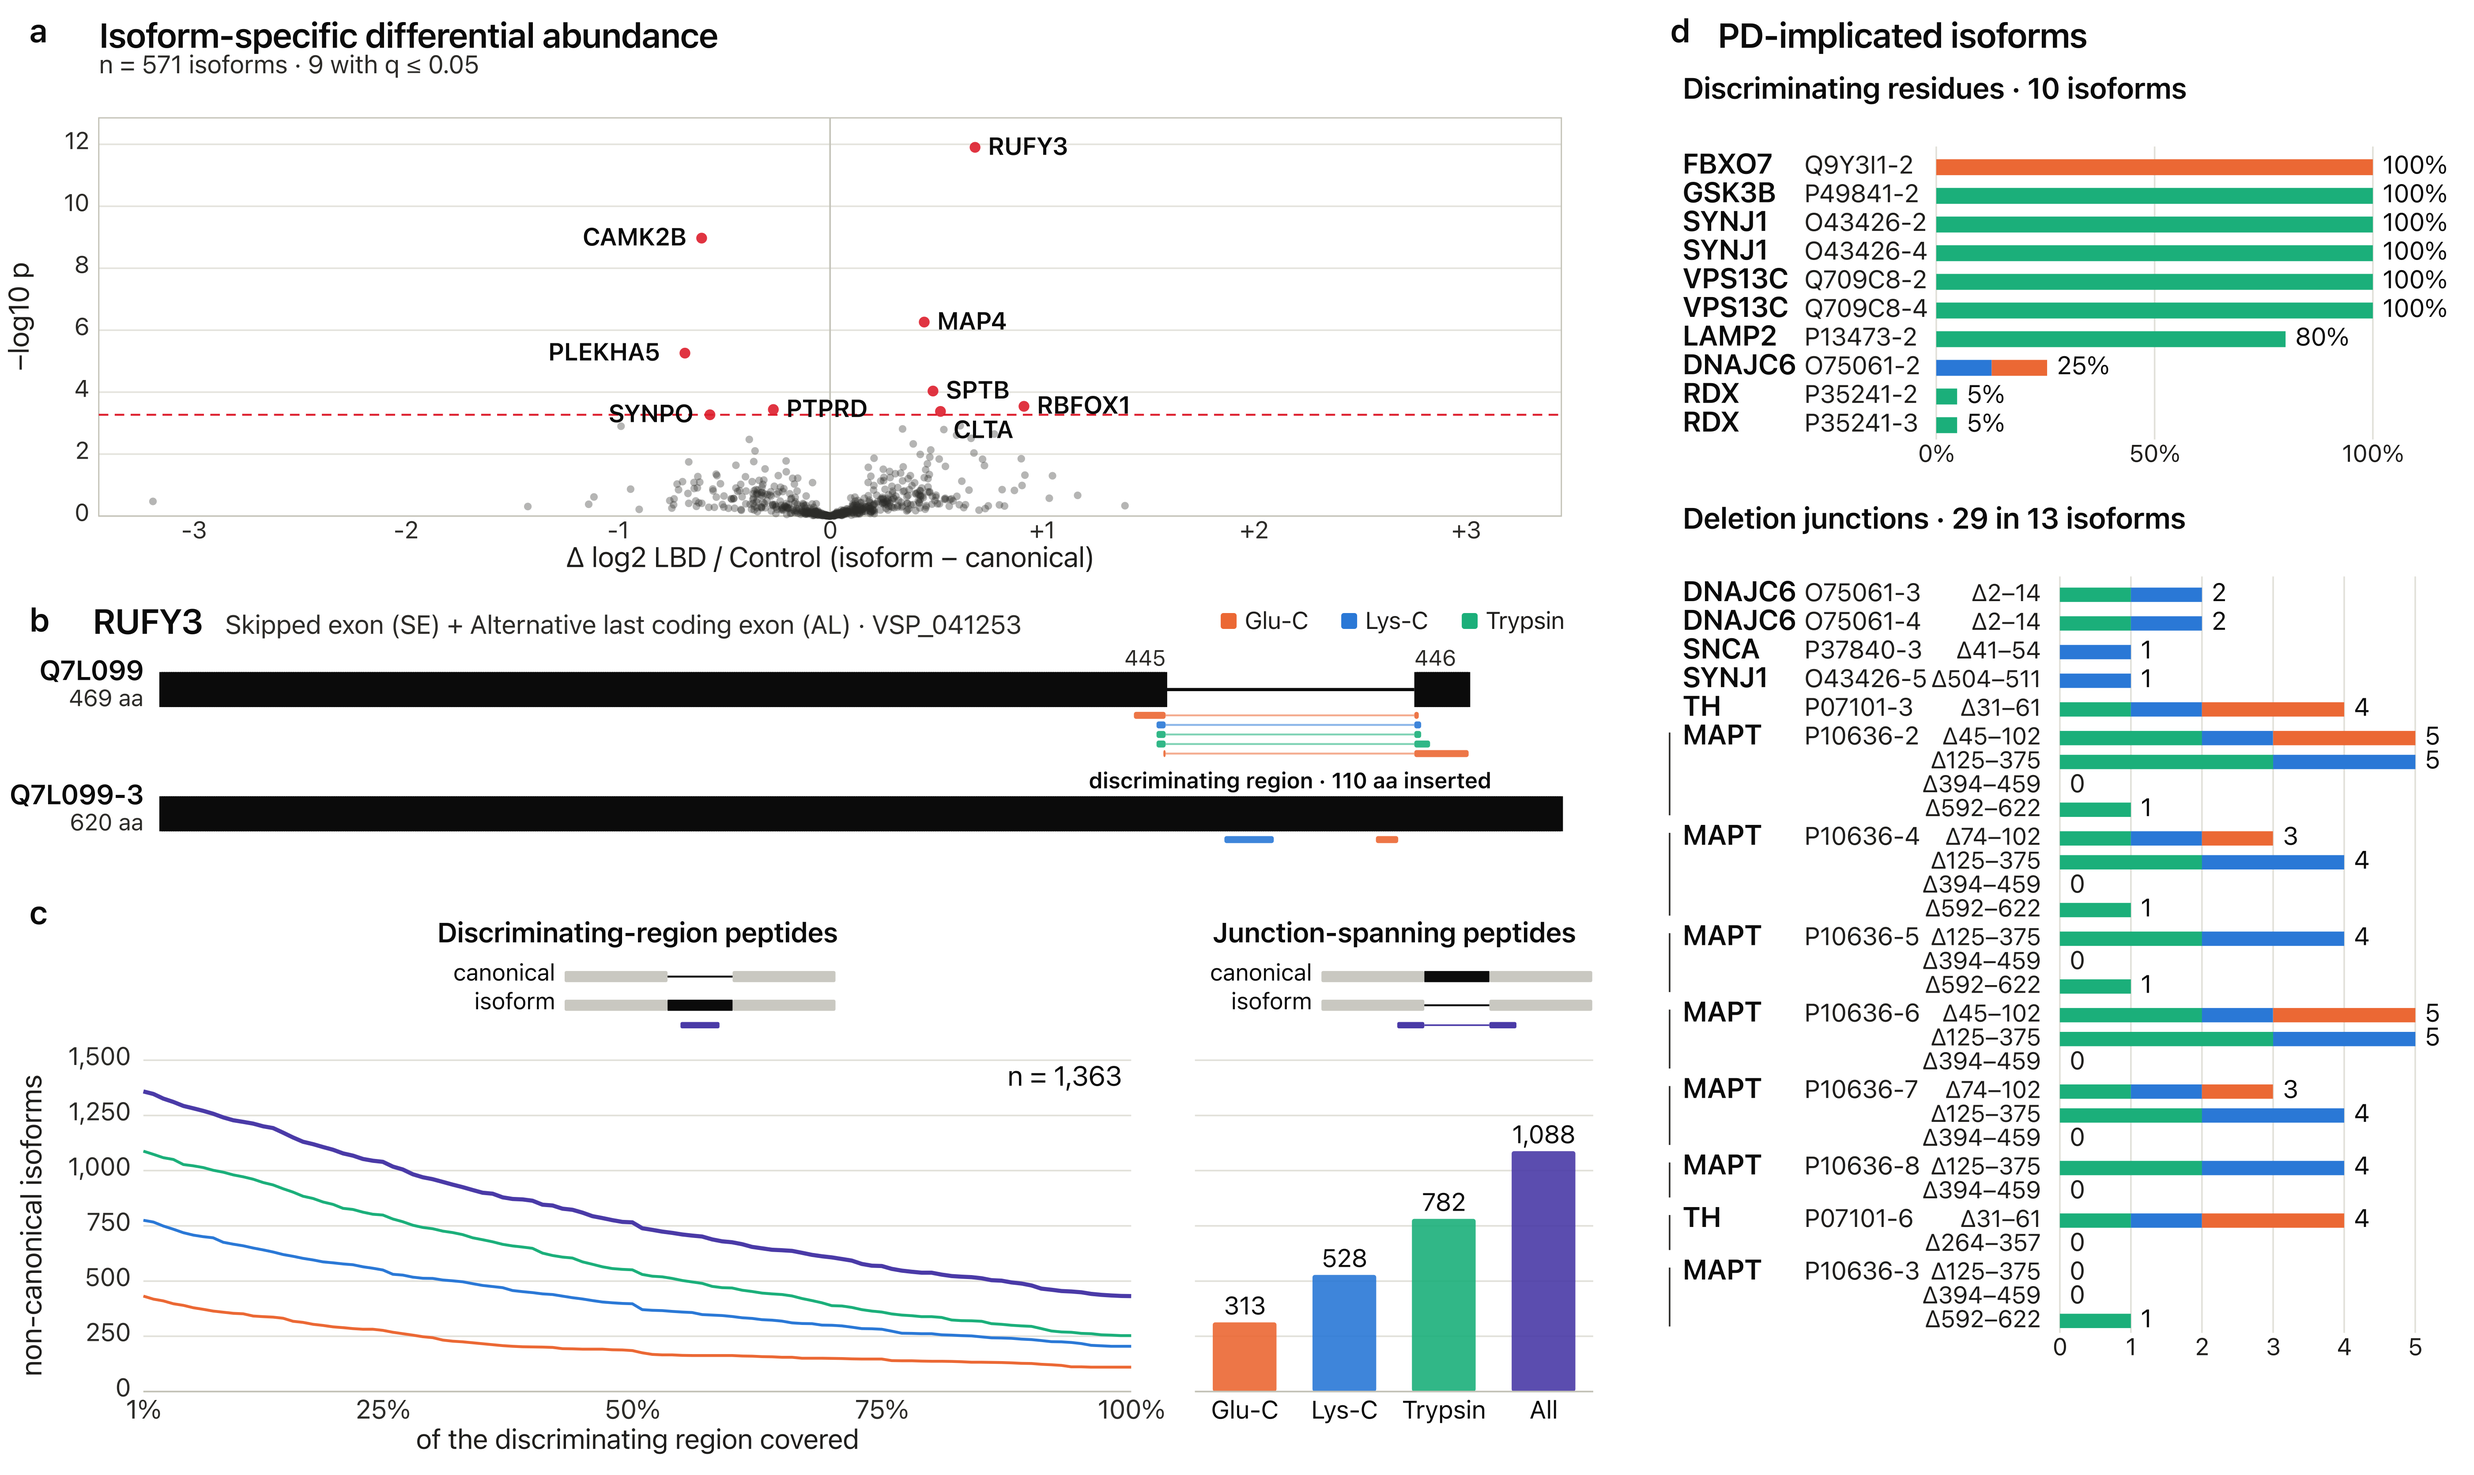
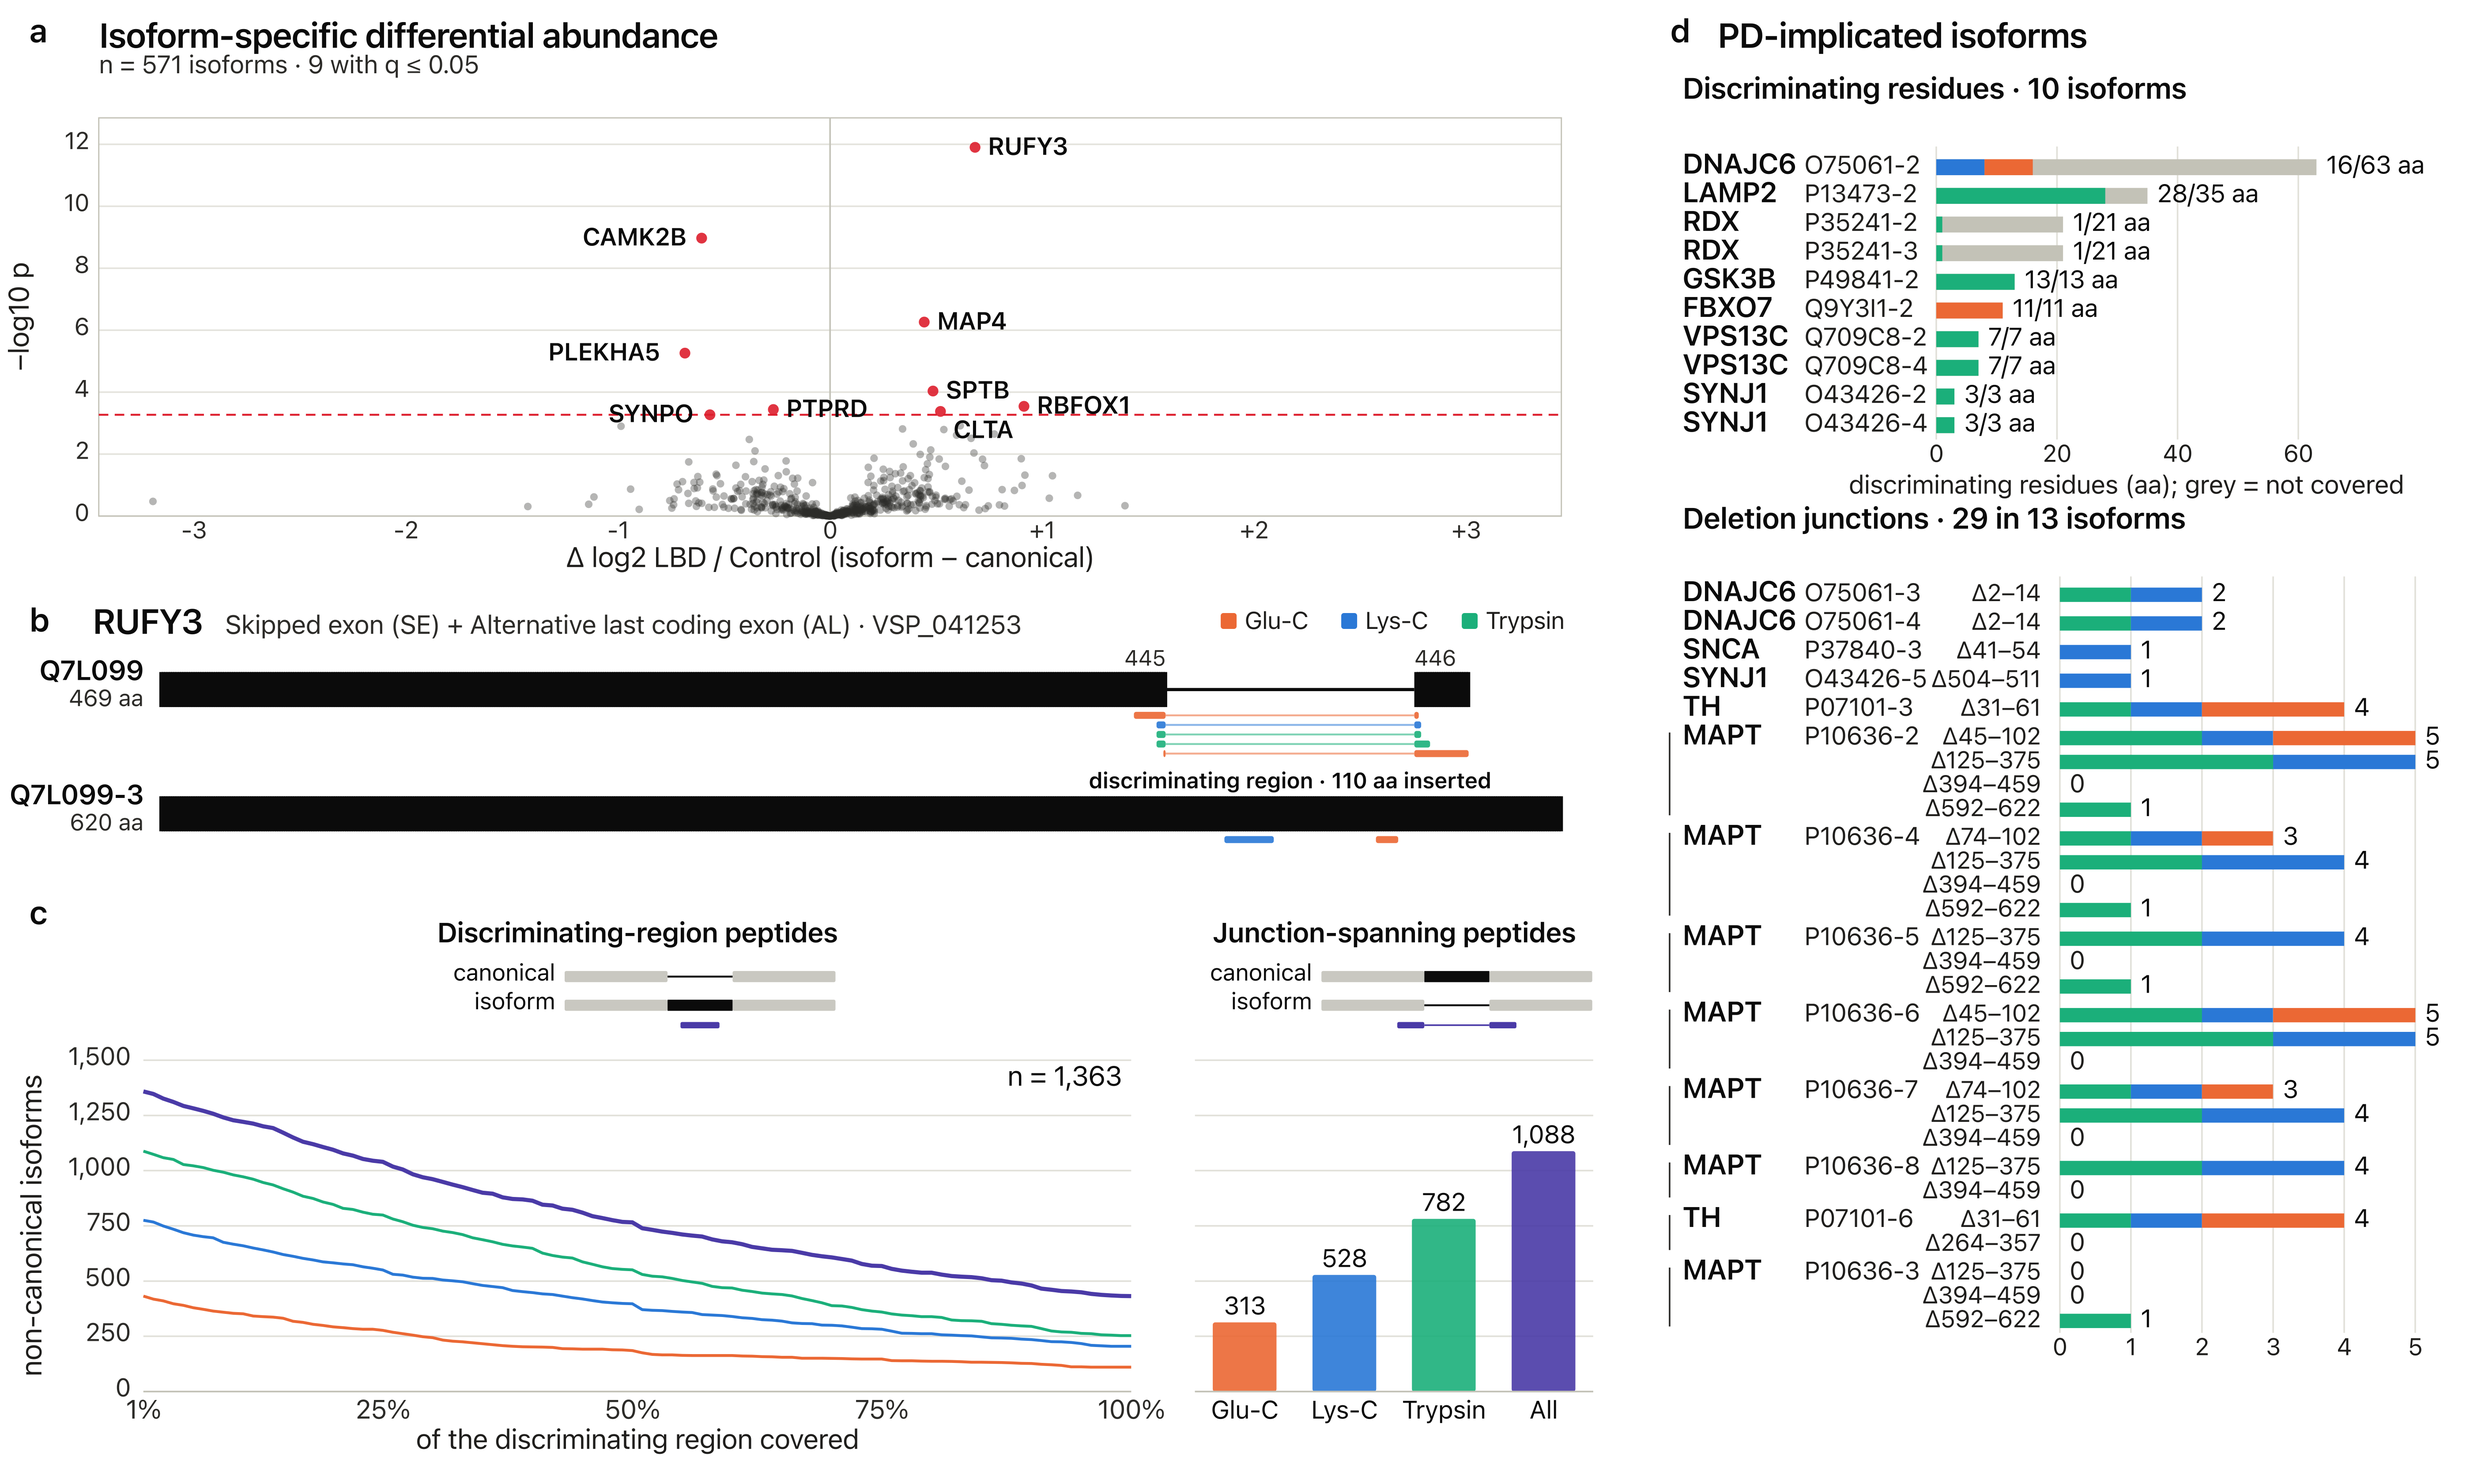
fig2d: residue bars in aa over each discriminating region's length, now the final panel; % bars and --lengths removed

Changed region(s): [[0.687, 0.0934, 0.9993, 0.3423]]

diff --git a/analysis/fig2cd_isoform_coverage.py b/analysis/fig2cd_isoform_coverage.py
@@ -599,14 +599,13 @@ def pd_grid(steps, out, font, letter="", width=1215.0, title=None, n_total=None)
 
 
 def pd_grid_dots(steps, out, font, letter="", width=1215.0, title=None,
-                 n_total=None, lengths=False):
-    """Residue bars over junction bars; `lengths` scales residues in aa."""
+                 n_total=None):
+    """Residue bars in aa over each region's length, junction bars under them."""
     from lib_palette import AXIS as AXIS_HEX, UNION as UNION_HEX
     from fig3bc_phospho_atlas import NONE_FILL, STEPS as CELL
     left = [t for t in steps if t[3] > 0 and t[6][-1] > 1e-9]
     right = [t for t in steps if t[4] > 0 and t[7][-1] > 1e-9]
-    left.sort(key=lambda t: (-t[3], -t[6][-1], t[0], t[1]) if lengths
-              else (-t[6][-1], t[0], t[1]))
+    left.sort(key=lambda t: (-t[3], -t[6][-1], t[0], t[1]))
     right.sort(key=lambda t: (-t[7][-1], t[0], t[1]))
     covered = {t[1] for t in left} | {t[1] for t in right}
     gain = len({t[1] for rows, cum in ((left, 6), (right, 7)) for t in rows
@@ -652,48 +651,38 @@ def pd_grid_dots(steps, out, font, letter="", width=1215.0, title=None,
     # Residues: trypsin from 0, then what Lys-C and Glu-C add.
     c.text(lx, mt - 34, f"Discriminating residues · {len(left)} isoforms", 9.8, INK,
            "start", "600")
-    n_aa = max(t[3] for t in left) if lengths else 1
-    end_w = max(wide(f"{round(t[6][-1] * t[3])}/{t[3]} aa", 8.4) for t in left) \
-        if lengths else wide("100%", 8.4)
+    n_aa = max(t[3] for t in left)
+    end_w = max(wide(f"{round(t[6][-1] * t[3])}/{t[3]} aa", 8.4) for t in left)
     bx0 = lx + gene_w + 8 + acc_w + 12
     bx1 = W - 20 - end_w - 8
 
     def BX(v):
         return bx0 + v / n_aa * (bx1 - bx0)
     seg = [colour["Trypsin"], colour["LysC"], colour["GluC"]]
-    if lengths:
-        step = next(s_ for s_ in (1, 2, 5, 10, 20, 25, 50, 100, 200, 500)
-                    if n_aa / s_ <= 4)
-        ticks = [(q, str(q)) for q in range(0, n_aa + 1, step)]
-    else:
-        ticks = [(q, f"{100 * q:.0f}%") for q in (0.0, 0.5, 1.0)]
-    for q, lab in ticks:
+    step = next(s_ for s_ in (1, 2, 5, 10, 20, 25, 50, 100, 200, 500)
+                if n_aa / s_ <= 4)
+    for q in range(0, n_aa + 1, step):
         c.line(BX(q), mt - 4, BX(q), mt + rh * len(left), stroke=GRID, sw=1.0)
-        c.text(BX(q), mt + rh * len(left) + 14, lab, 8.0, INK_SECONDARY, "middle")
-    if lengths:
-        c.text((bx0 + bx1) / 2, mt + rh * len(left) + 34,
-               "discriminating residues (aa); grey = not covered", 8.6,
-               INK_SECONDARY, "middle")
+        c.text(BX(q), mt + rh * len(left) + 14, str(q), 8.0, INK_SECONDARY,
+               "middle")
+    c.text((bx0 + bx1) / 2, mt + rh * len(left) + 34,
+           "discriminating residues (aa); grey = not covered", 8.6,
+           INK_SECONDARY, "middle")
     for r, t in enumerate(left):
         y = mt + r * rh + rh / 2
         c.text(lx, y + 4, t[0], 9.4, INK, "start", "600")
         c.text(lx + gene_w + 8, y + 4, t[1], 8.4, INK_SECONDARY, "start")
-        scale = t[3] if lengths else 1
-        edges = [0.0] + [v * scale for v in t[6]]    # trypsin, + Lys-C, + Glu-C
-        tip = " → ".join(f"{round(v * t[3])} aa" if lengths else f"{100 * v:.0f}%"
-                         for v in t[6])
-        c.add(f'<g><title>{t[0]} {t[1]}: trypsin, + Lys-C, + Glu-C: {tip}'
-              + (f' of {t[3]} aa' if lengths else '') + '</title>')
-        if lengths:
-            c.rect(BX(0), y - 5, BX(t[3]) - BX(0), 10, AXIS_HEX)
+        edges = [0.0] + [v * t[3] for v in t[6]]     # trypsin, + Lys-C, + Glu-C
+        tip = " → ".join(f"{round(v * t[3])} aa" for v in t[6])
+        c.add(f'<g><title>{t[0]} {t[1]}: trypsin, + Lys-C, + Glu-C: {tip} '
+              f'of {t[3]} aa</title>')
+        c.rect(BX(0), y - 5, BX(t[3]) - BX(0), 10, AXIS_HEX)
         for k in range(3):
             if edges[k + 1] > edges[k] + 1e-9:
                 c.rect(BX(edges[k]), y - 5, BX(edges[k + 1]) - BX(edges[k]), 10,
                        seg[k])
         c.add('</g>')
-        lab = f"{round(t[6][-1] * t[3])}/{t[3]} aa" if lengths \
-            else f"{100 * t[6][-1]:.0f}%"
-        c.text(BX(scale) + 6 if lengths else BX(t[6][-1]) + 6, y + 4, lab, 8.4,
+        c.text(BX(t[3]) + 6, y + 4, f"{round(t[6][-1] * t[3])}/{t[3]} aa", 8.4,
                INK, "start")
 
     # Junctions: spanning peptides from trypsin, then Lys-C, then Glu-C.
@@ -758,9 +747,7 @@ def main(argv=None):
                     help="pd: gene symbols, space- or comma-separated")
     ap.add_argument("--title", default=None)
     ap.add_argument("--grid-dots", action="store_true",
-                    help="pd: residue heatmap over a junction dot matrix")
-    ap.add_argument("--lengths", action="store_true",
-                    help="pd --grid-dots: residue bars in aa over each region's length")
+                    help="pd: residue bars in aa over junction bars")
     ap.add_argument("--grid", action="store_true",
                     help="pd: isoform x protease grid instead of bars")
     ap.add_argument("reports", nargs="*", default=["data/search/*-60min-Phospho.parquet"])
@@ -789,8 +776,7 @@ def main(argv=None):
         steps = pd_steps(paths, args.fasta, want, args.precursor_q)
         draw = pd_grid_dots if args.grid_dots else pd_grid if args.grid \
             else pd_path
-        kw = {"lengths": True} if args.lengths and args.grid_dots else {}
-        draw(steps, args.out, args.font, args.letter, args.width, args.title, **kw)
+        draw(steps, args.out, args.font, args.letter, args.width, args.title)
         return 0
     panel(load(args.tsv), args.out, args.font, args.letter, args.width,
           with_junctions=args.junctions)
